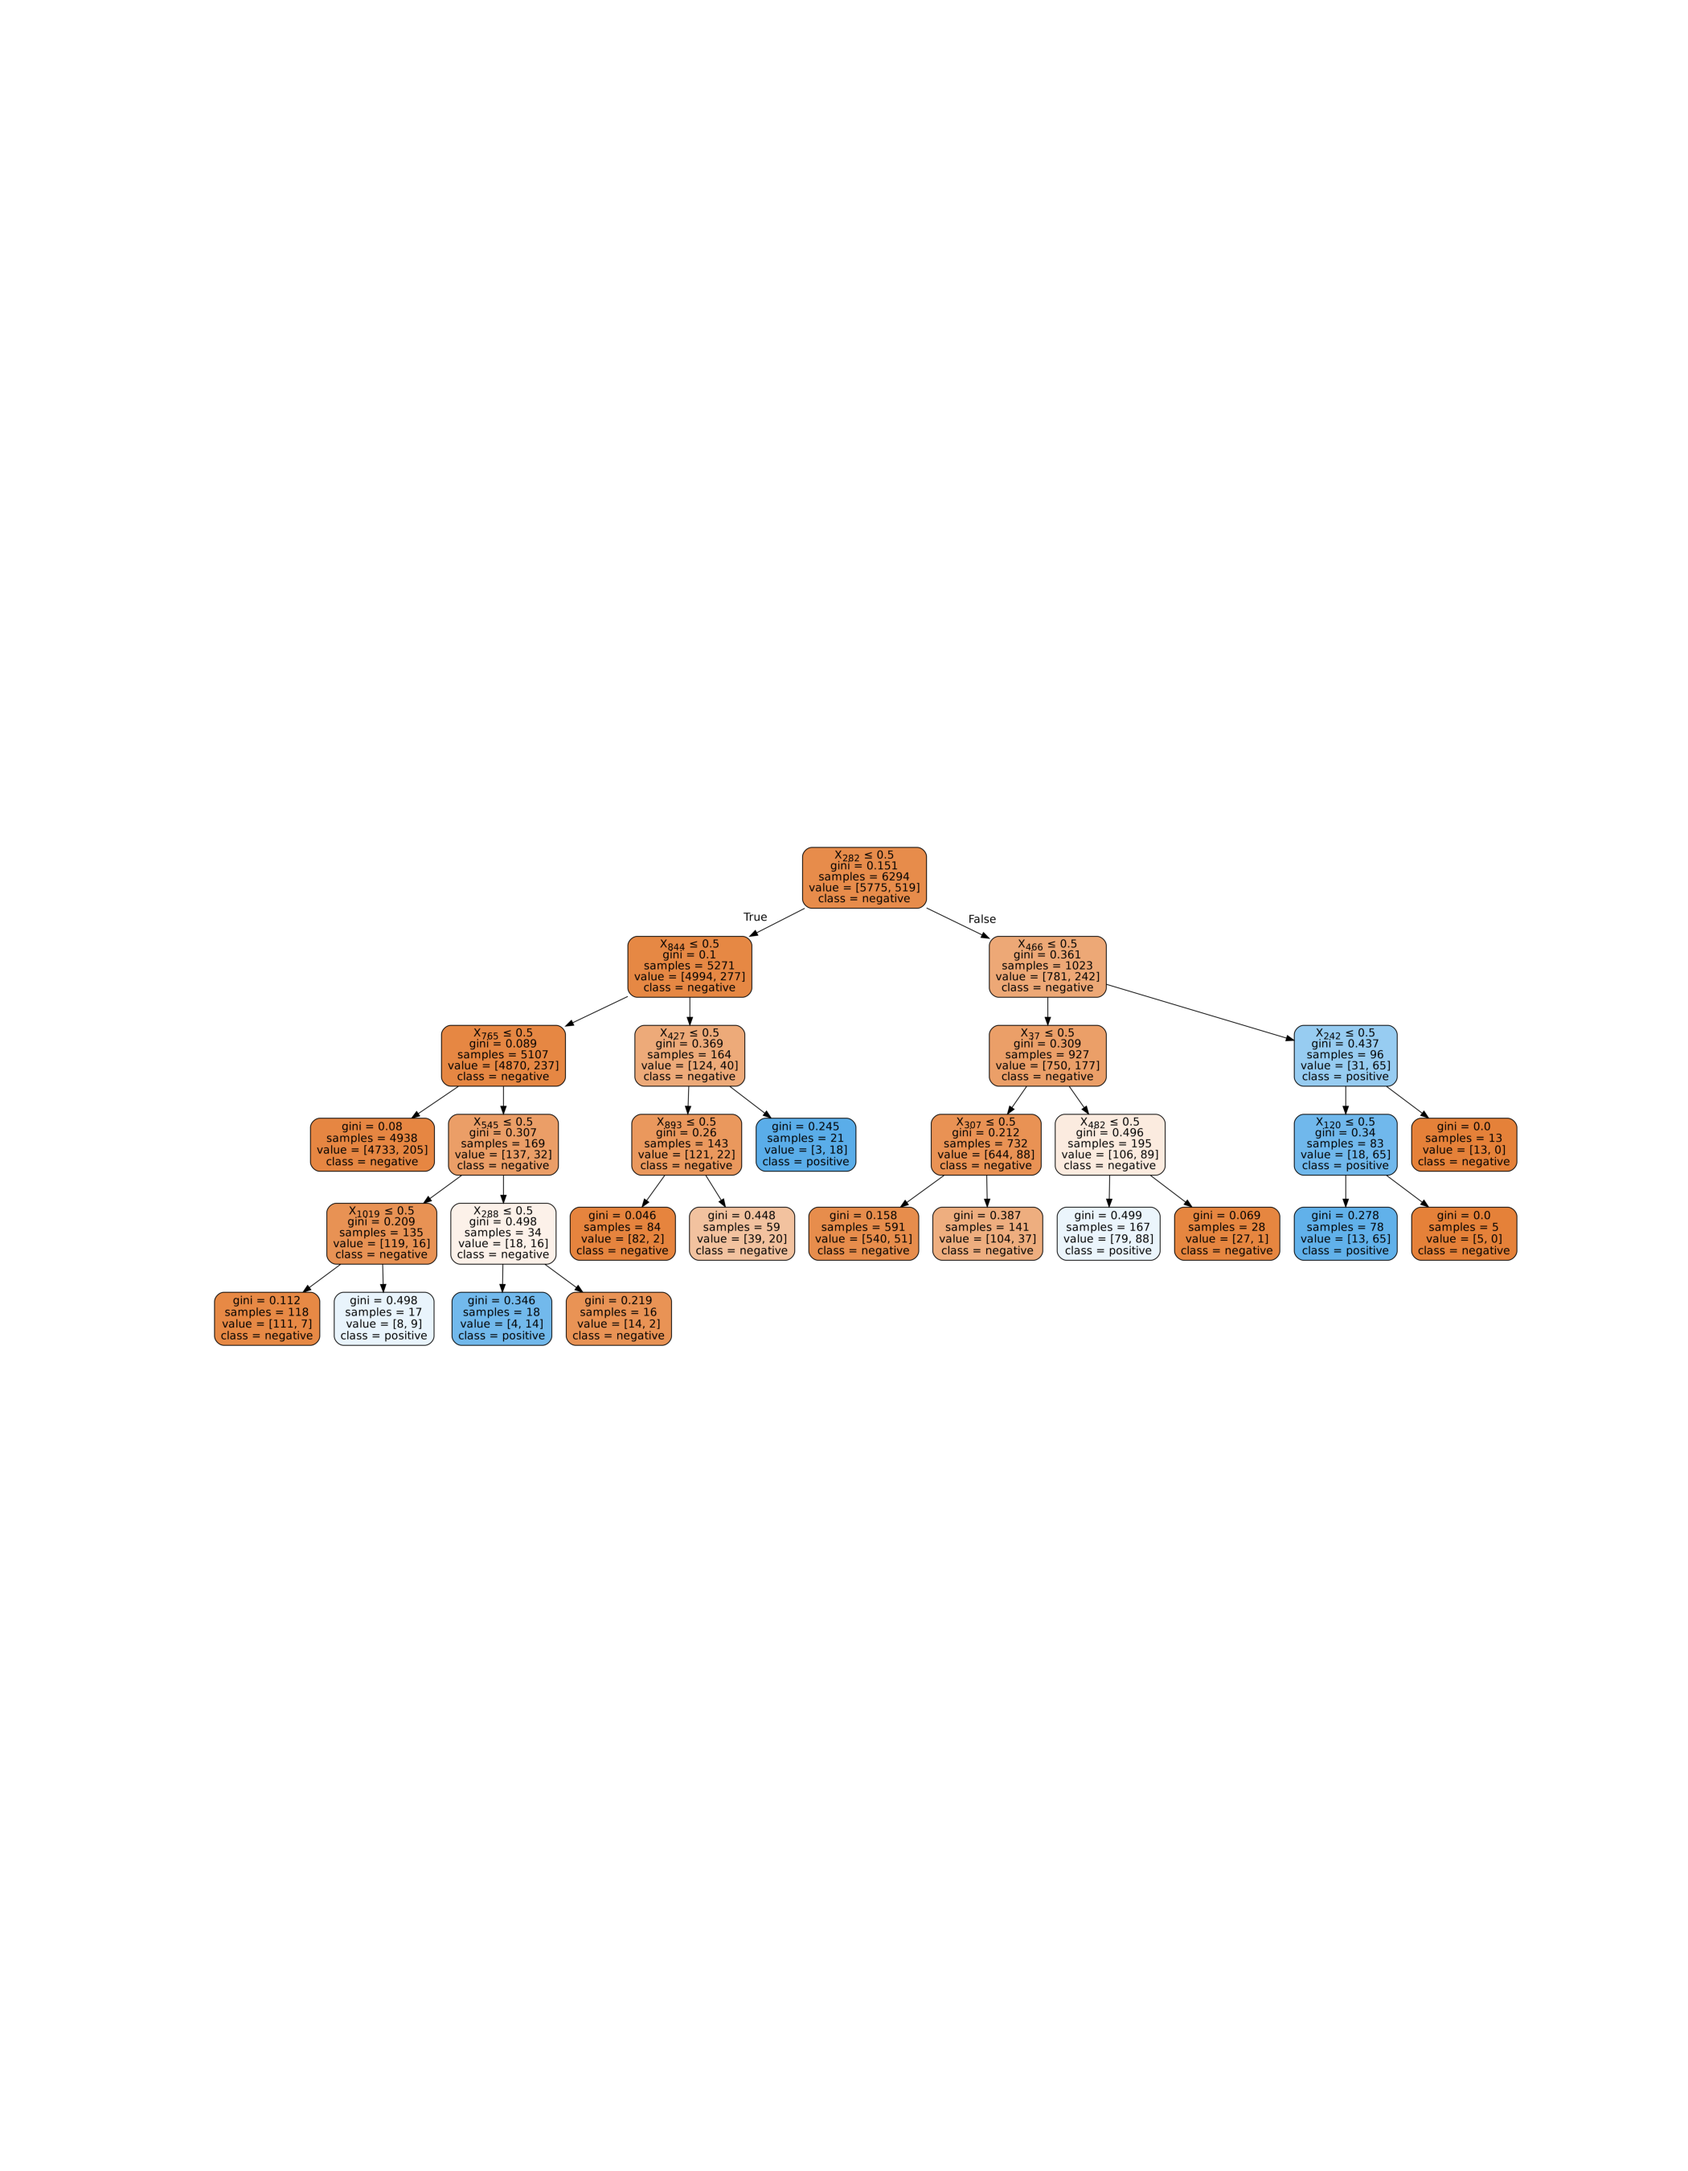
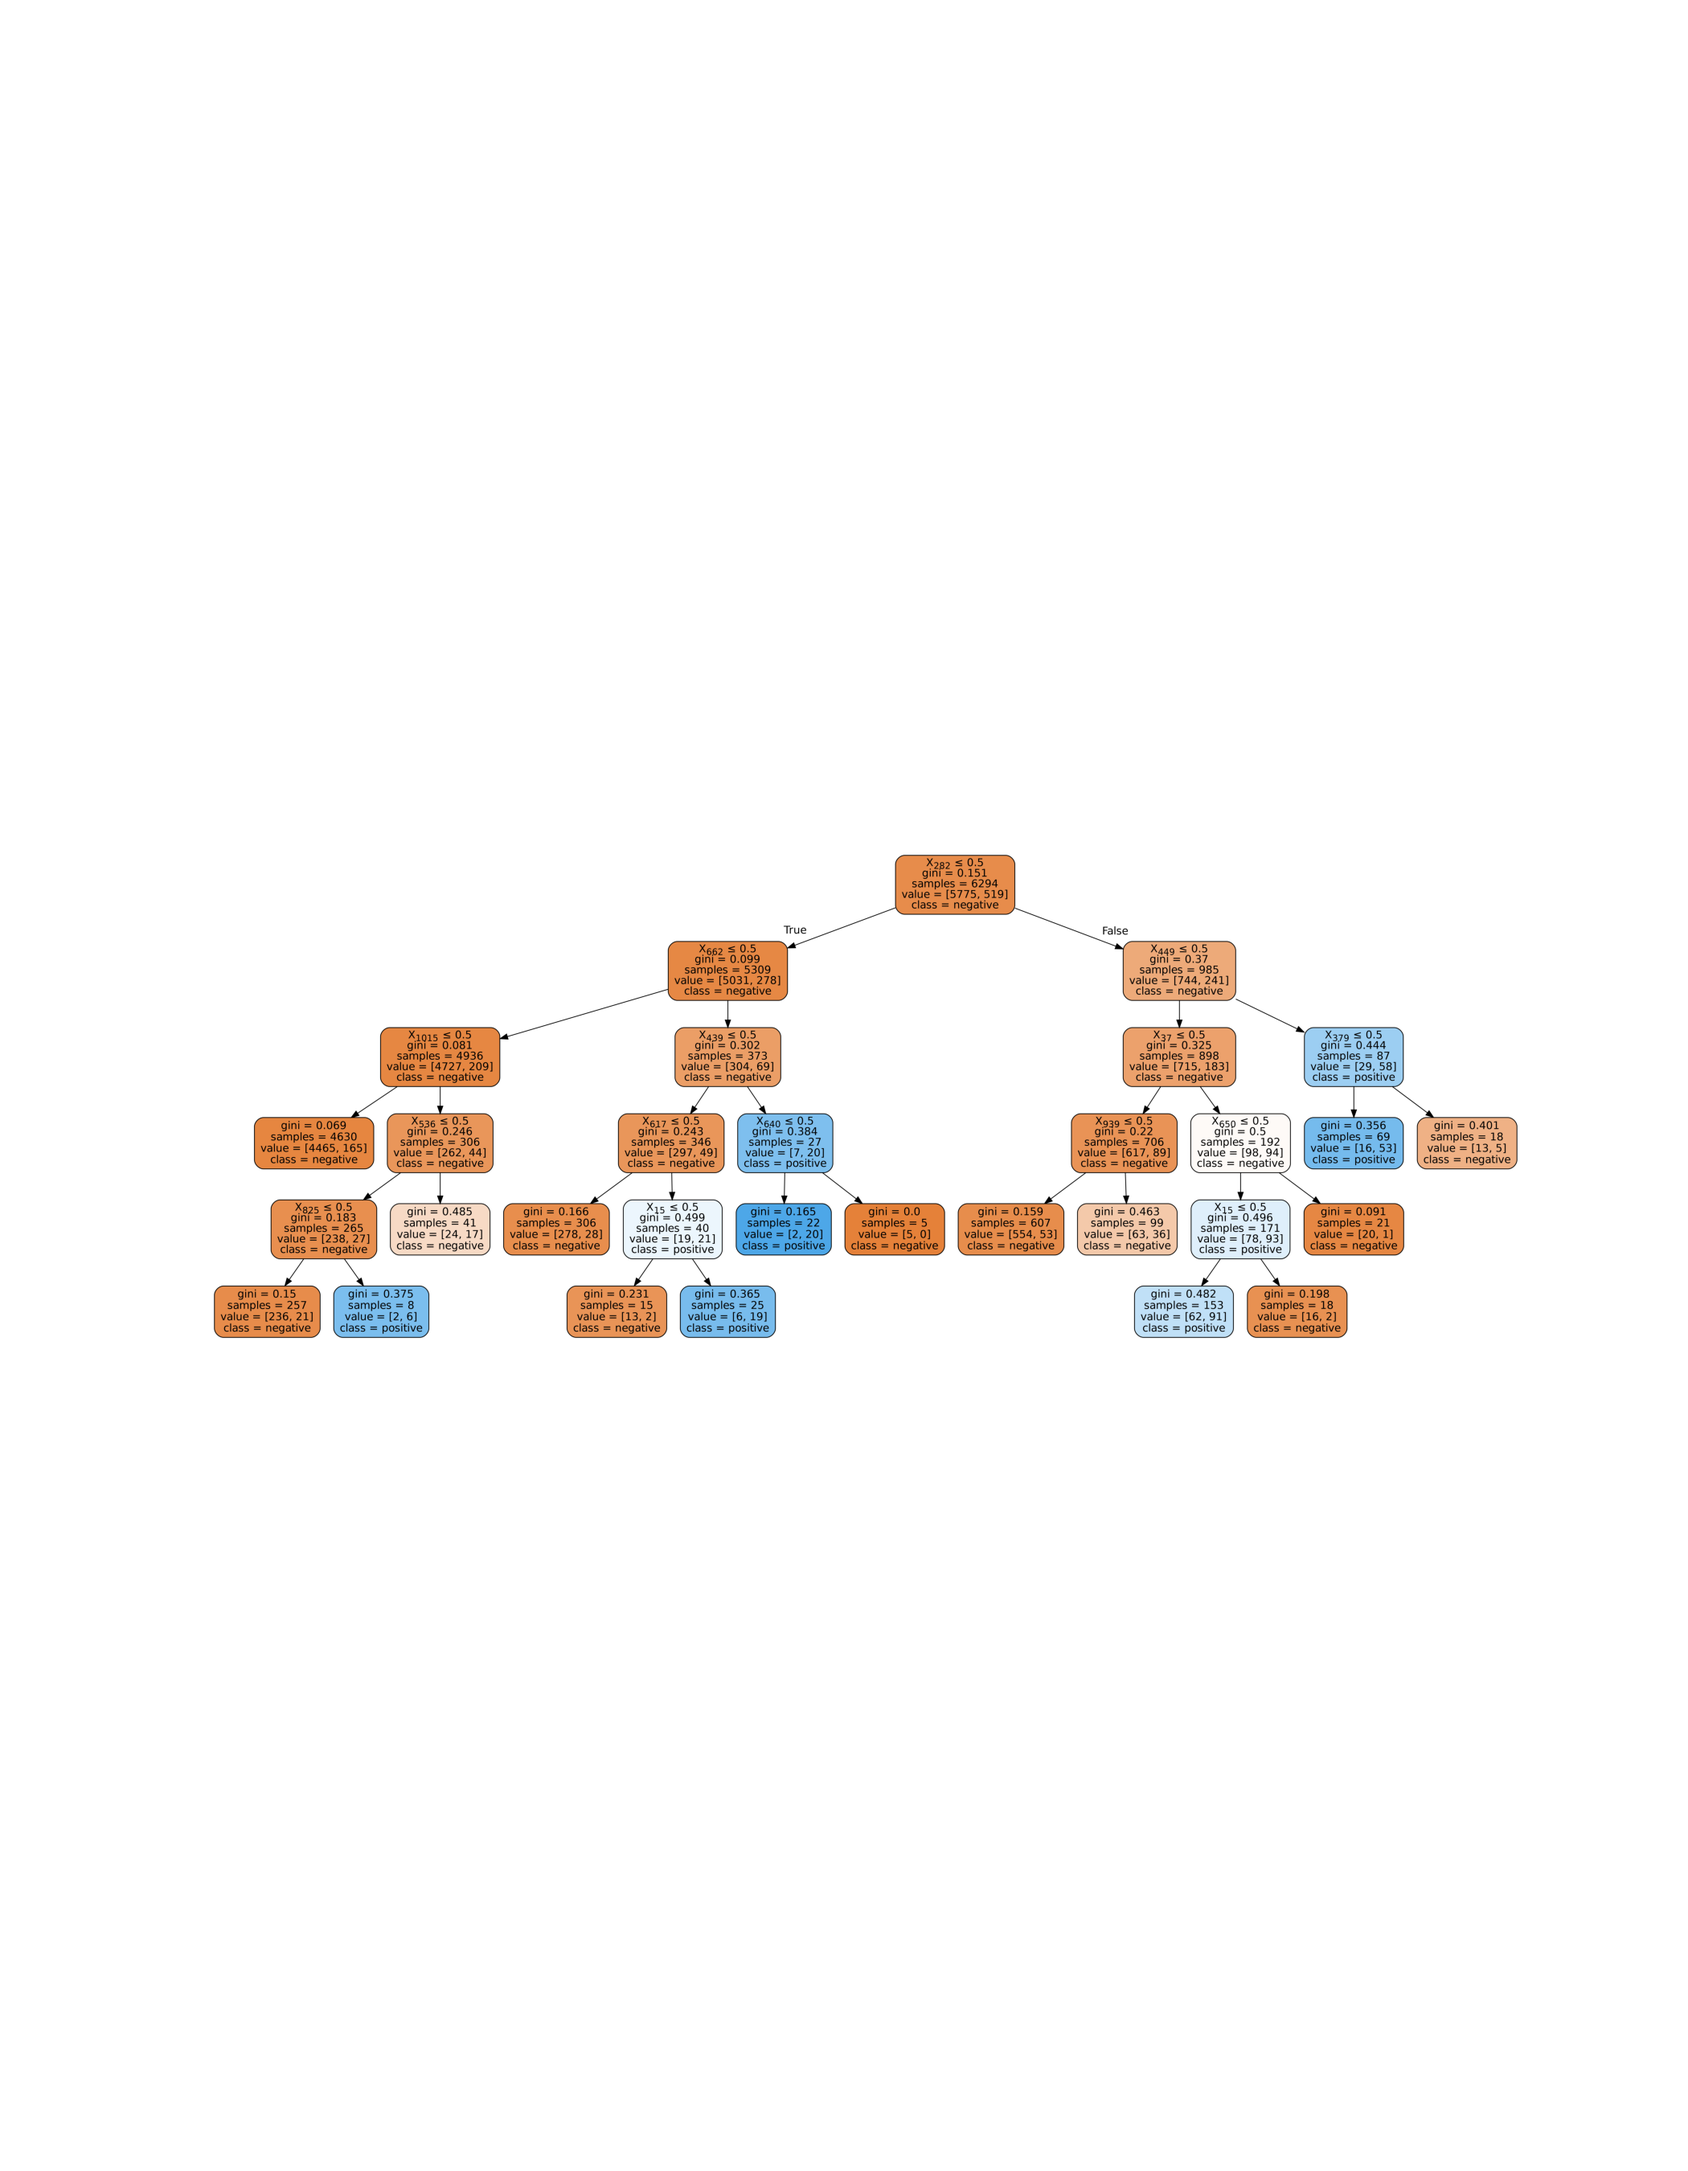
Finished decision tree analysis

Changed region(s): [[0.1238, 0.3733, 0.8976, 0.6222]]

diff --git a/Labs/Lab04/HFCR_decisiontrees.py b/Labs/Lab04/HFCR_decisiontrees.py
@@ -1,0 +1,86 @@
+import numpy as np
+import pandas as pd
+import matplotlib.pyplot as plt
+from sklearn.model_selection import StratifiedKFold
+import sklearn.metrics as metrics
+from sklearn.tree import DecisionTreeClassifier
+import ds_functions as ds
+import os
+
+graphsDir = './Results/'
+if not os.path.exists(graphsDir):
+    os.makedirs(graphsDir)
+
+data: pd.DataFrame = pd.read_csv('../../Dataset/heart_failure_clinical_records_dataset.csv')
+y: np.ndarray = data.pop('DEATH_EVENT').values
+X: np.ndarray = data.values
+labels = pd.unique(y)
+
+skf = StratifiedKFold(n_splits=5, shuffle=True)
+splitList = list(skf.split(X, y))
+splitCounter = 1
+
+min_impurity_decrease = [0.025, 0.01, 0.005, 0.0025, 0.001]
+max_depths = [2, 5, 10, 15, 20, 25, 30]
+criteria = ['entropy', 'gini']
+best = ('',  0, 0.0)
+best_model = ()
+last_best = 0
+best_tree = None
+
+plt.figure()
+fig, axs = plt.subplots(1, 2, figsize=(16, 5), squeeze=False)
+for k in range(len(criteria)):
+    f = criteria[k]
+    values = {}
+    for d in max_depths:
+        yvalues = []
+        for imp in min_impurity_decrease:
+            best_iteration_accuracy = 0
+            for model in splitList:
+                trnX, trnY = X[model[0]], y[model[0]]
+                tstX, tstY = X[model[1]], y[model[1]]
+
+                tree = DecisionTreeClassifier(min_samples_leaf=1, max_depth=d, criterion=f, min_impurity_decrease=imp)
+                tree.fit(trnX, trnY)
+                prdY = tree.predict(tstX)
+
+                iteration_accuracy = metrics.accuracy_score(tstY, prdY)
+                if iteration_accuracy > best_iteration_accuracy:
+                    best_iteration_accuracy = iteration_accuracy
+                    model_sets = (trnX, trnY, tstX, tstY)
+                
+            yvalues.append(best_iteration_accuracy)
+            if yvalues[-1] > last_best:
+                best = (f, d, imp)
+                best_model = tuple(model_sets)
+                last_best = yvalues[-1]
+                best_tree = tree
+
+        values[d] = yvalues
+    ds.multiple_line_chart(min_impurity_decrease, values, ax=axs[0, k], title='Decision Trees with %s criteria'%f,
+                           xlabel='min_impurity_decrease', ylabel='accuracy', percentage=True)
+
+print('Best results achieved with %s criteria, depth=%d and min_impurity_decrease=%1.5f ==> accuracy=%1.5f'%(best[0], best[1], best[2], last_best))
+fig.text(0.5, 0.03, 'Best results with %s criteria, depth=%d and min_impurity_decrease=%1.5f ==> accuracy=%1.5f'%(best[0], best[1], best[2], last_best), fontsize=7, ha='center', va='center')
+plt.suptitle('HFCR Decision Trees - parameters')
+plt.savefig(graphsDir + 'HFCR Decision Trees - parameters')
+
+from sklearn.tree import export_graphviz
+labels_features = list(data.columns.values)
+dot_data = export_graphviz(best_tree, out_file=(graphsDir + 'HFCR - dtree.dot'), filled=True, rounded=True, special_characters=True, feature_names=labels_features, class_names=['0', '1'])
+# Convert to png
+from subprocess import call
+call(['dot', '-Tpng', (graphsDir + 'HFCR - dtree.dot'), '-o', (graphsDir + 'HFCR Decision Trees - tree representation.png'), '-Gdpi=600'])
+
+plt.figure(figsize = (14, 18))
+plt.imshow(plt.imread(graphsDir + 'HFCR Decision Trees - tree representation.png'))
+plt.axis('off')
+plt.savefig(graphsDir + 'HFCR Decision Trees - tree representation')
+
+trnX, trnY, tstX, tstY = best_model
+prd_trn = best_tree.predict(trnX)
+prd_tst = best_tree.predict(tstX)
+ds.plot_evaluation_results(pd.unique(y), trnY, prd_trn, tstY, prd_tst)
+plt.suptitle('HFCR Decision Trees - Performance & Confusion matrix')
+plt.savefig(graphsDir + 'HFCR Decision Trees - Performance & Confusion matrix')

diff --git a/Labs/Lab04/QOT_decisiontrees.py b/Labs/Lab04/QOT_decisiontrees.py
@@ -19,7 +19,7 @@ labels = pd.unique(y)
 trnX, tstX, trnY, tstY = train_test_split(X, y, train_size=0.7, stratify=y)
 
 min_impurity_decrease = [0.025, 0.01, 0.005, 0.0025, 0.001]
-max_depths = [50, 100, 150, 250, 550, 1100, 1600, 2200, 2600]
+max_depths = [2, 5, 10, 15, 20, 25, 30]
 criteria = ['entropy', 'gini']
 best = ('',  0, 0.0)
 last_best = 0
@@ -47,16 +47,16 @@ for k in range(len(criteria)):
                            xlabel='min_impurity_decrease', ylabel='accuracy', percentage=True)
 
 print('Best results achieved with %s criteria, depth=%d and min_impurity_decrease=%1.5f ==> accuracy=%1.5f'%(best[0], best[1], best[2], last_best))
-fig.text(0.5, 0.03, '%s criteria, depth=%d and min_impurity_decrease=%1.5f ==> accuracy=%1.5f'%(best[0], best[1], best[2], last_best), fontsize=7, ha='center', va='center')
+fig.text(0.5, 0.03, 'Best results with %s criteria, depth=%d and min_impurity_decrease=%1.5f ==> accuracy=%1.5f'%(best[0], best[1], best[2], last_best), fontsize=7, ha='center', va='center')
 plt.suptitle('QOT Decision Trees - parameters')
 plt.savefig(graphsDir + 'QOT Decision Trees - parameters')
 
 from sklearn.tree import export_graphviz
 
-dot_data = export_graphviz(tree, out_file=(graphsDir + 'dtree.dot'), filled=True, rounded=True, special_characters=True, class_names=['negative', 'positive'])
+dot_data = export_graphviz(best_tree, out_file=(graphsDir + 'QOT - dtree.dot'), filled=True, rounded=True, special_characters=True, class_names=['negative', 'positive'])
 # Convert to png
 from subprocess import call
-call(['dot', '-Tpng', (graphsDir + 'dtree.dot'), '-o', (graphsDir + 'QOT Decision Trees - tree representation.png'), '-Gdpi=600'])
+call(['dot', '-Tpng', (graphsDir + 'QOT - dtree.dot'), '-o', (graphsDir + 'QOT Decision Trees - tree representation.png'), '-Gdpi=600'])
 
 plt.figure(figsize = (14, 18))
 plt.imshow(plt.imread(graphsDir + 'QOT Decision Trees - tree representation.png'))
